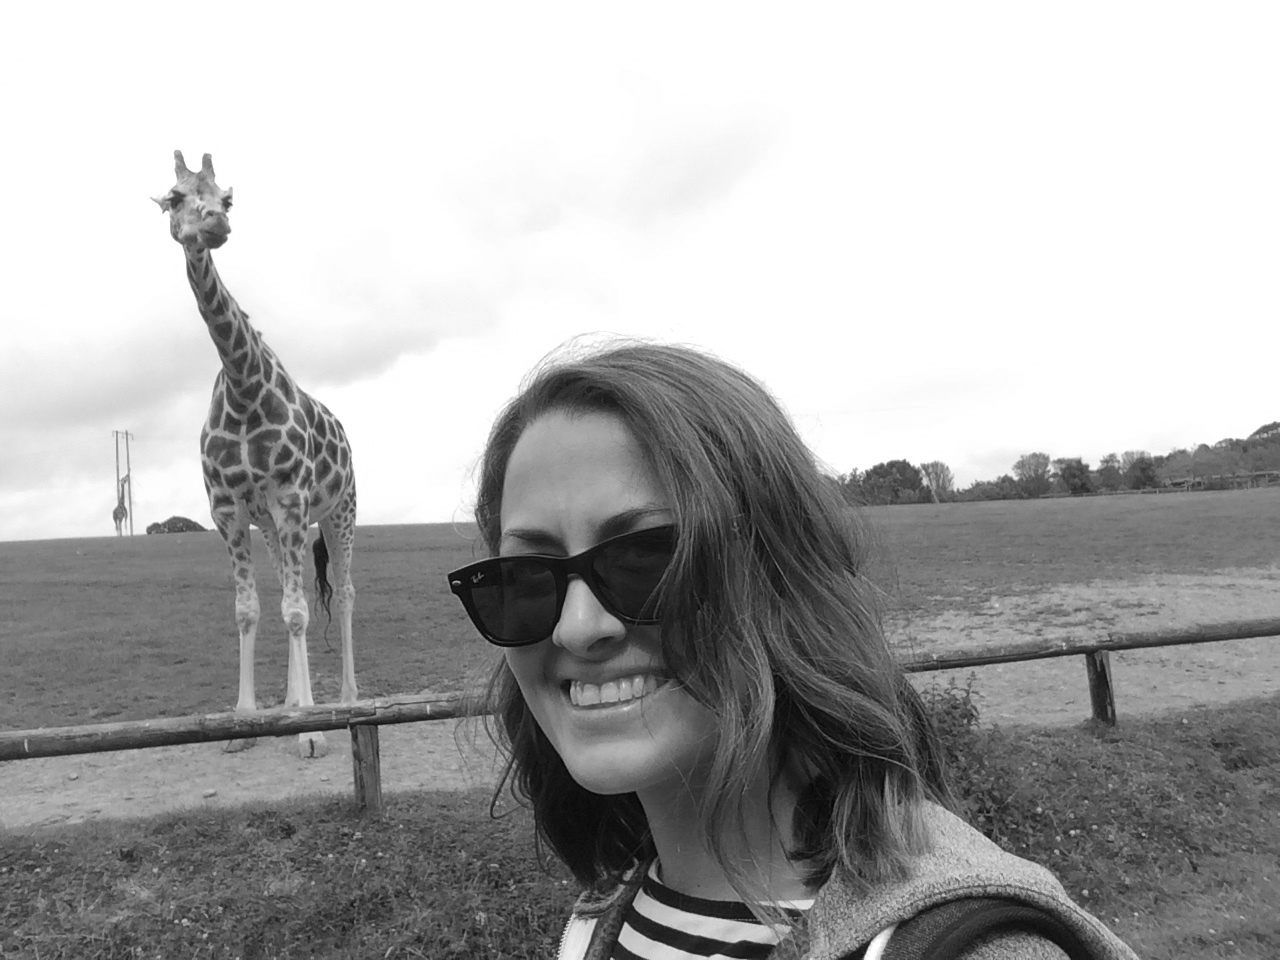
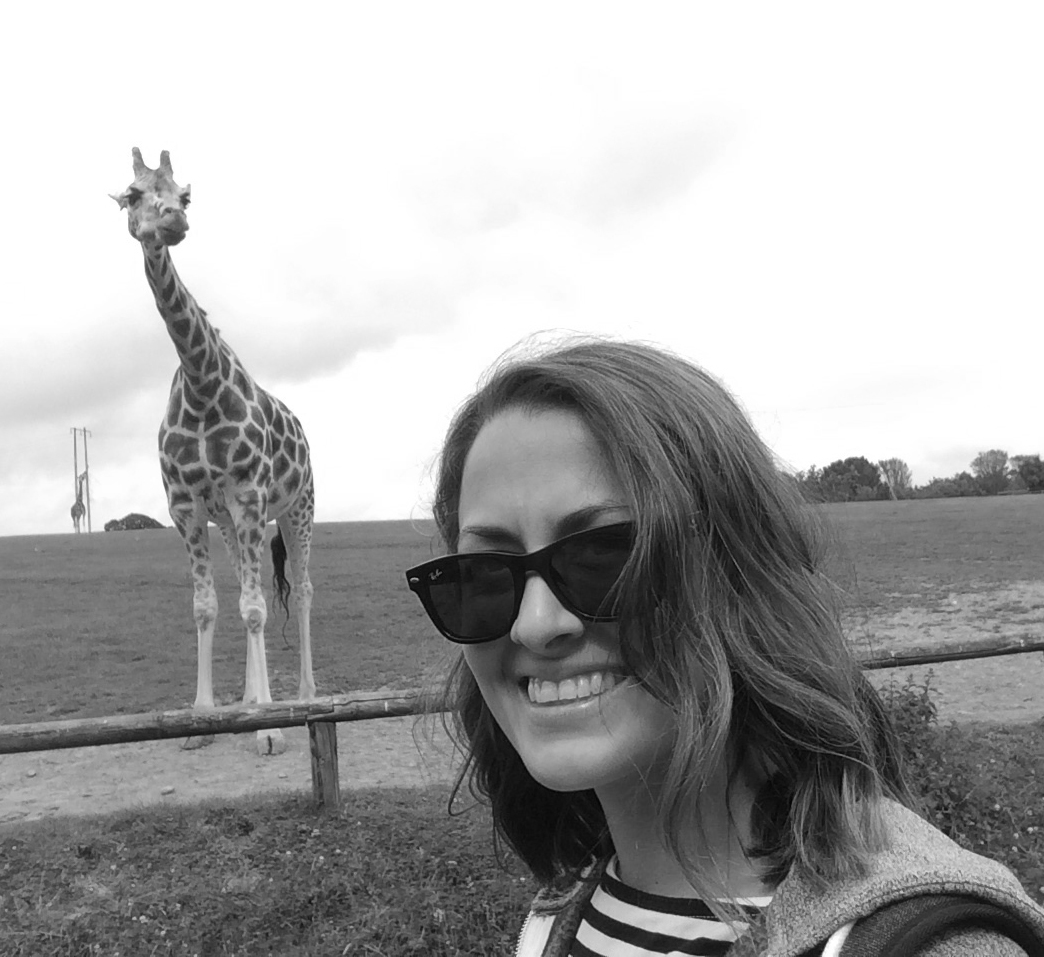
Update Site
fixed image width for bottom image, updating css and html to manage
projects.

Changed region(s): [[0.0, 0.1515, 1.0, 1.0], [0.3065, 0.3636, 0.3372, 0.3939]]

diff --git a/index.html b/index.html
@@ -7,8 +7,8 @@
     <link href="https://maxcdn.bootstrapcdn.com/bootstrap/3.3.0/css/bootstrap.min.css" rel="stylesheet">
     <link rel="stylesheet" href="https://maxcdn.bootstrapcdn.com/font-awesome/4.4.0/css/font-awesome.min.css">
     <link rel="stylesheet" href="css/stylesheet_sam.css">
-
-
+    <link href='https://fonts.googleapis.com/css?family=Oswald' rel='stylesheet' type='text/css'>
+<link href='https://fonts.googleapis.com/css?family=Lato' rel='stylesheet' type='text/css'>
     <script src="https://ajax.googleapis.com/ajax/libs/jquery/1.11.3/jquery.min.js"></script>
     <script src="http://maxcdn.bootstrapcdn.com/bootstrap/3.3.5/js/bootstrap.min.js"></script>
 
@@ -78,10 +78,10 @@
     <p class="about_me_text">When I'm not developing you can find me hanging out with my dog, Franklin. I also enjoy traveling, the ocean, and craft beer. </p>
   </div>
   <div id="about_me_sm" class="row">
-    <ul>
-      <li class="about_me_sm_icon"><a class="about_me_social_media_link" href="https://www.linkedin.com/in/samanthaannmontoya" target="_blank"><i class="fa fa-linkedin-square fa-4x"></i></a></li>
-      <li class="about_me_sm_icon"><a class="about_me_social_media_link" href="https://github.com/sammontoya" target="_blank"><i class="fa fa-github-square fa-4x"></i></a></li>
-      <li class="about_me_sm_icon"><a class="about_me_social_media_link" href="#contact_me"><i class="fa fa-envelope-o fa-4x"></i></a></li>  
+    <ul class="about_me_sm_icons">
+      <li class="about_me_sm_icon"><a class="about_me_social_media_link" href="https://www.linkedin.com/in/samanthaannmontoya" target="_blank"><i class="fa fa-linkedin-square fa-5x"></i></a></li>
+      <li class="about_me_sm_icon"><a class="about_me_social_media_link" href="https://github.com/sammontoya" target="_blank"><i class="fa fa-github-square fa-5x"></i></a></li>
+      <li class="about_me_sm_icon"><a class="about_me_social_media_link" href="#contact_me"><i class="fa fa-envelope-o fa-5x"></i></a></li>  
     </ul>
   </div>
   <div class="row down_arrow">
@@ -162,43 +162,44 @@
 </div>
 <div id="work" class="container">
   <div class="row">
+    <h3 class="temporary_placeholder">Projects coming soon! </h3>
     <!-- Project 1  -->
-    <div class="col-md-3 col-xs-12 project">
+    <!-- <div class="col-md-3 col-xs-6 project">
       <div id="high_low" class="project-image-box">
       </div>
       <div class="project-description">
           <h3>"High-Low Game"<h3>
           <h4>a jQuery app</h4>
       </div>
-    </div>
+    </div> -->
     <!-- Project 2 -->
-    <div class="col-md-3 col-xs-12 project">
+    <!-- <div class="col-md-3 col-xs-6 project">
       <div id="tic_tac_toe" class="project-image-box">
       </div>
       <div class="project-description">
           <h3>"Tic-Tac-Toe"<h3>
           <h4>a jQuery app</h4>
       </div>
-    </div>
+    </div> -->
     <!-- Project 3  -->
-    <div class="col-md-3 col-xs-12 project">
+    <!-- <div class="col-md-3 col-xs-6 project">
       <div id="recipes_app" class="project-image-box">
       </div>
       <div class="project-description">
           <h3>"Recipes"<h3>
           <h4>a Ruby on Rails app</h4>
       </div>
-    </div>
+    </div> -->
     <!-- Project 4  -->
-    <div class="col-md-3 col-xs-12 project">
+    <!-- <div class="col-md-3 col-xs-6 project">
       <div id="bucket_list_app" class="project-image-box">
       </div>
       <div class="project-description">
           <h3>"BucketList"<h3>
           <h4>a Ruby on Rails app</h4>
       </div>
-    </div>
-  </div>
+    </div>-->
+  </div> 
 </div>
 <!--Contact me section  -->
 <div class = "footer contact_area_gray">
@@ -221,7 +222,7 @@
     </div>
     <div class="col-md-6 right_bottom_box">
       <div class="row top_bottom_right">
-        <ul>
+        <ul class="contact_me_sm_icons">
           <li class="contact_me_email"> Email: samanthaannmontoya@gmail.com</li>
           <li class="contact_me_sm_icon"><a class="contact_me_social_media_link" href="https://www.linkedin.com/in/samanthaannmontoya" target="_blank"><i class="fa fa-linkedin-square fa-4x"></i></a></li>
           <li class="contact_me_sm_icon"><a class="contact_me_social_media_link" href="https://github.com/sammontoya" target="_blank"><i class="fa fa-github-square fa-4x"></i></a></li>  

diff --git a/js/personal_site.js b/js/personal_site.js
@@ -3,45 +3,45 @@ $(document).ready(function() {
     scrollTop: $('#profile_pic').offset().top
   },'slow');
     
-  $('#scroll').click(function() {
-	    $('html, body').animate({
-        scrollTop: $('#about').offset().top-42
-      }, 1000);
-      return false;
-  });
-  $('#about_scroll_button').click(function() {
-      $('html, body').animate({
-        scrollTop: $('#about').offset().top-42
-      }, 1000);
-      return false;
-  }); 
-  $('#skills_scroll_button').click(function() {
-		    $('html, body').animate({
-          scrollTop: $('#skillsimage').offset().top
-        }, 1000);
-        return false;
-  });
-  $('#work_scroll_button').click(function() {
-		    $('html, body').animate({
-          scrollTop: $('#workimage').offset().top
-        }, 1000);
-        return false;
-  });
-  $('#contact_me_scroll').click(function() {
-        $('html, body').animate({
-          scrollTop: $('#contact_me').offset().top
-        }, 1000);
-        return false;
-  });
-  $('#scroll_top').click(function() {
-        $('html, body').animate({
-          scrollTop: $('#profile_pic').offset().top
-        }, 1000);
-        return false;
-  });
+  // $('#scroll').click(function() {
+	//     $('html, body').animate({
+  //       scrollTop: $('#about').offset().top-42
+  //     }, 1000);
+  //     return false;
+  // });
+  // $('#about_scroll_button').click(function() {
+  //     $('html, body').animate({
+  //       scrollTop: $('#about').offset().top-42
+  //     }, 1000);
+  //     return false;
+  // }); 
+  // $('#skills_scroll_button').click(function() {
+	// 	    $('html, body').animate({
+  //         scrollTop: $('#skillsimage').offset().top
+  //       }, 1000);
+  //       return false;
+  // });
+  // $('#work_scroll_button').click(function() {
+	// 	    $('html, body').animate({
+  //         scrollTop: $('#workimage').offset().top
+  //       }, 1000);
+  //       return false;
+  // });
+  // $('#contact_me_scroll').click(function() {
+  //       $('html, body').animate({
+  //         scrollTop: $('#contact_me').offset().top
+  //       }, 1000);
+  //       return false;
+  // });
+  // $('#scroll_top').click(function() {
+  //       $('html, body').animate({
+  //         scrollTop: $('#profile_pic').offset().top
+  //       }, 1000);
+  //       return false;
+  // });
 
-  var distance_from_top = $(".nav").offset().top-42;
-
+  var distance_from_top = $(".nav").offset().top-5;
+  
   $(document).scroll(function(){
       if($(this).scrollTop() > distance_from_top)
       {   

diff --git a/css/stylesheet_sam.css b/css/stylesheet_sam.css
@@ -1,3 +1,9 @@
+body{
+  font-family: 'Lato', sans-serif;
+}
+h1, h2, h3{
+  font-family: 'Oswald', sans-serif;
+}
 /*navigation*/
 .navbar-custom {
   background-color: transparent;
@@ -12,6 +18,10 @@
     color: #fff;
 }
 
+.navbar-custom a:hover{
+  background-color: dimgray;
+}
+
 /*landing pic and info*/
 .header {
   background-image: url("img/manatee_me.jpg");
@@ -22,24 +32,26 @@
   min-height: 500px;
   width: 100%;
 }
-.center_info{
+/*.center_info{
   color: white;
   text-align: center;
-}
+}*/
 
 .name {
-  margin-top: 240px;  
+  color: white;
+  margin-top: 240px; 
+  text-align: center;
+   
 }
 .big_scroll{
-  float: right;
-  margin-right: 45%;
+  color: white;
 }
 .big_scroll:hover{
   color: dimgray;
 }
 /* About Me section*/
 #about {
-  height: 100vh;
+  min-height: 100vh;
   
 }
 .about_title_text{
@@ -83,10 +95,13 @@
 }
 .about_me_sm_icon i{
 color:dimgray;
+margin: 20px;
 }
 .about_me_sm_icon i:hover{
   color:#444;
-
+}
+.about_me_sm_icons{
+  text-align: center;
 }
 
 /*general css for each section (minus about me)*/
@@ -129,6 +144,12 @@ color:dimgray;
 #work{
   min-height: 50vh;
 }
+.temporary_placeholder{
+  font-size: 4em;
+  margin-bottom: 55px;
+  margin-top: 55px;
+  text-align: center;
+}
 .project{
   background-color: dimgray;
   border: 3.5px solid white;
@@ -155,7 +176,9 @@ color:dimgray;
 /*Contact me section*/
 .contact_area_gray{
   background-color: dimgray;
+  min-height: 100vh;
   padding-top: 55px;
+  
 }
 .contact_area {
   /*background-color: dimgray;
@@ -197,11 +220,24 @@ img.contact_me_image{
   width: auto; 
 
 }
-.contact_me_sm_icon{
+.contact_me_sm_icons{
   color: black;   
-  display: inline;
   list-style: none;
 }
+.contact_me_sm_icon{
+  display: inline;
+  margin: 20px;
+}
+
+.contact_me_social_media_link i{
+  color: black;  
+}
+
+.contact_me_social_media_link i:hover{
+  color: white;  
+}
+
+
 /*.bottom_bottom_right{
   position:absolute;
   right:0;
